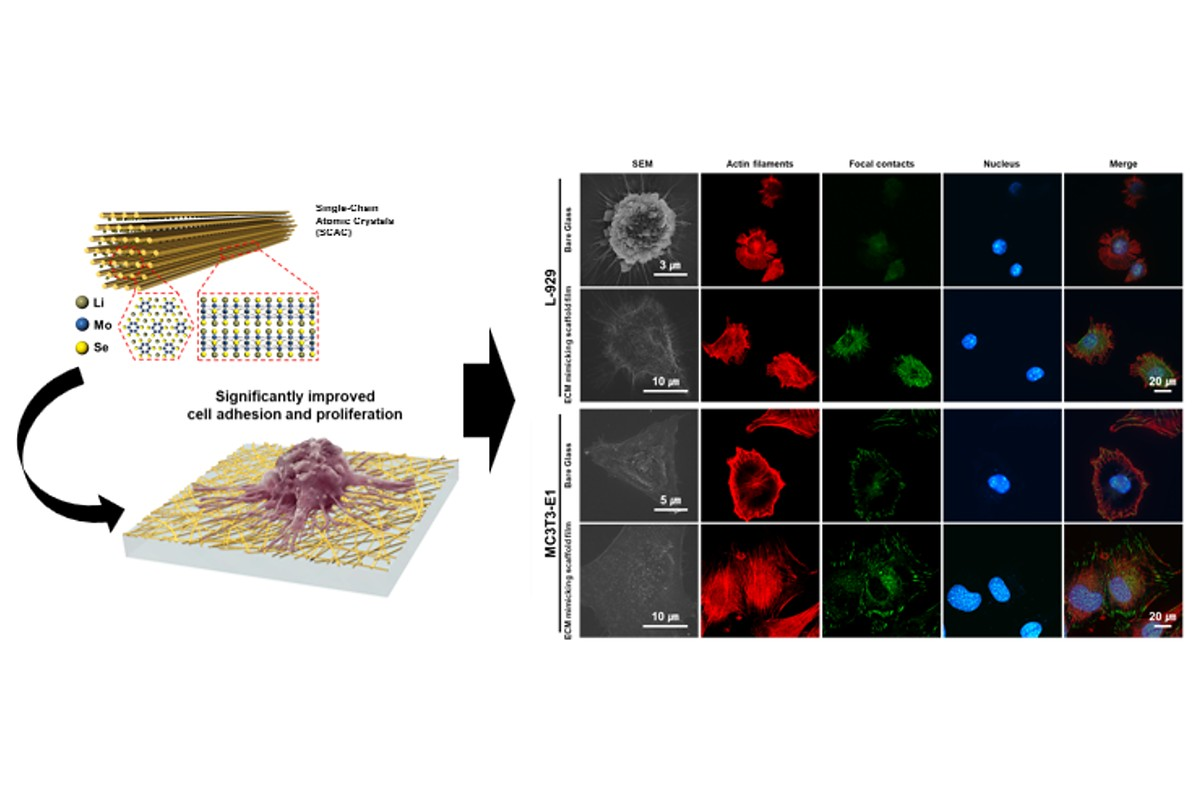
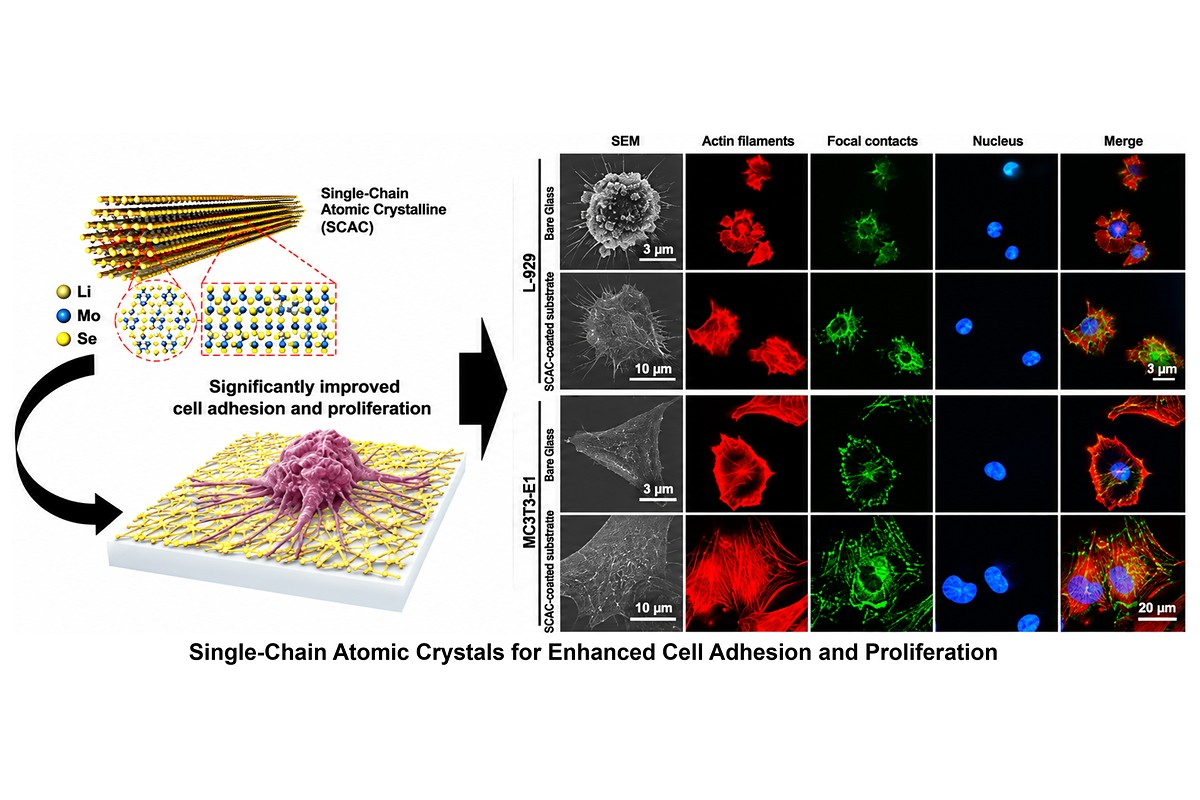
Research: new figures from the Dropbox folder, and the CRYK figure closes area 1
- Area 1 now turns through five figures and ends on the DNA-addressed plasmonic
  colour figure (CRYK / colour sensor), which was previously first: nanoclusters,
  aptamers, cell counting, dual-enzyme whitening, plasmonic colour.
- Area 3 grows from one figure to five: the ATP pad-dry-cure scheme, RNA as a
  flame retardant for polyurethane foam, the flame test with infrared and SEM of
  the char, the thermally switchable MNP@SiO2@SDS filler, and the TA/ATP/CNF
  aerogel.
- Area 4 gains two figures after the ACS Nano 2020 summary: the genetic algorithm
  itself (18-bit gene, crossover, mutation) and the AI-based DNA image analysis.
- Rebuilt four figures from the newer, larger originals in the folder: whitening
  (adds the non-destructive whitening, biofilm and hypersensitivity panels), cell
  counting, SCAC cell adhesion and the bone-regeneration hydrogel.
- Every figure is a 1200x800 fit on white, so nothing is cropped by object-fit;
  alt text and lightbox captions are new for the six added figures, the area 3
  intro mentions the aerogels and the switching filler, and the ?v= of each
  changed image is bumped.

Changed region(s): [[0.0, 0.1562, 1.0, 0.8438]]

diff --git a/research/index.html b/research/index.html
@@ -88,7 +88,7 @@
       <h2>Four research areas</h2>
       <p>Each area stands on its own and feeds the others: a nanostructure made for diagnosis becomes a surface for studying cells, and the images it generates train the next generation of design models. Each card turns through the figures behind that area; select one to open the viewer and step through them all.</p>
     </div>
-    <div class="area-grid"><article class="area reveal" id="biomedical-diagnosis"><button class="gallery-item area-media" type="button" data-gallery-item data-frames='[{"s": "../assets/research-plasmonic.jpg?v=5b90ddf2", "a": "DNA-addressed plasmonic colour: red gold nanoparticles, yellow silver nanoparticles and cyan gold nanorods, each carrying its own DNA strand, mix to black in the CRYK colour model; below, a virus capsid and a DNA probe on a gold nanorod that switches on when the virus is captured", "c": "Plasmonic colour from DNA-addressed nanoparticles: gold (red), silver (yellow) and gold-nanorod (cyan) building blocks mix to an achromatic black, and a DNA probe on a gold nanorod reports a captured virus as an ON signal."}, {"s": "../assets/research-nanocluster.jpg?v=5af2bd51", "a": "Gold nanorods in mesoporous silica (GNR@mSiO2) nanoclusters: TEM images and cross-sections of the P1, P2 and P3 clusters, and models of a parallelly ordered cluster with the rods packed side by side and a randomly ordered cluster", "c": "Complex nanoclusters: gold nanorods grown inside mesoporous silica (GNR@mSiO2), from the TEM images of the P1, P2 and P3 clusters to the models of a parallelly ordered cluster and a randomly ordered one."}, {"s": "../assets/research-aptamer.jpg?v=9cf2ce0a", "a": "Cycle of graphene-oxide-coated magnetic nanoparticle (GOMNP) SELEX: the beads bind the target-ssDNA complex, magnetic separation, asymmetric PCR amplification and purification for the next round", "c": "Finding new DNA aptamers with graphene-oxide-coated magnetic nanoparticles: target-bound strands are separated magnetically, amplified and carried into the next SELEX round."}, {"s": "../assets/research-cellcount.jpg?v=b69df4e2", "a": "Ach-CC colorimetric sensor: the vials change colour as the cell number rises and membrane enzymes release lactate and hydrogen ions; a smartphone converts RGB to HSV and quantifies 0, 60 x 10^4 and 440 x 10^4 cells", "c": "Counting cells from a colour change: the Ach-CC sensor shifts colour as cells release lactate and hydrogen ions, and a smartphone camera reads the RGB to HSV shift and reports the cell number."}, {"s": "../assets/research-whitening.jpg?v=54f7d5dd", "a": "DENTA dual-enzyme tooth whitening: glucose oxidase generates H2O2 for whitening while catalase removes the excess, so sustained whitening against red wine, coffee, soda and ice-cream stains replaces the self-degradation of single-enzyme whitening", "c": "Dual-enzyme whitening: glucose oxidase supplies H2O2 while catalase removes the excess, so DENTA keeps whitening against red wine, coffee, soda and ice-cream stains instead of consuming itself."}]' aria-label="Open the figures for Nanomaterials for Biomedical Diagnosis &amp; Therapy"><span class="gal-track"><img class="gal-frame is-active" src="../assets/research-plasmonic.jpg?v=5b90ddf2" alt="DNA-addressed plasmonic colour: red gold nanoparticles, yellow silver nanoparticles and cyan gold nanorods, each carrying its own DNA strand, mix to black in the CRYK colour model; below, a virus capsid and a DNA probe on a gold nanorod that switches on when the virus is captured" width="1200" height="800" loading="lazy" decoding="async"><img class="gal-frame" src="../assets/research-nanocluster.jpg?v=5af2bd51" alt="Gold nanorods in mesoporous silica (GNR@mSiO2) nanoclusters: TEM images and cross-sections of the P1, P2 and P3 clusters, and models of a parallelly ordered cluster with the rods packed side by side and a randomly ordered cluster" width="1200" height="800" loading="lazy" decoding="async"><img class="gal-frame" src="../assets/research-aptamer.jpg?v=9cf2ce0a" alt="Cycle of graphene-oxide-coated magnetic nanoparticle (GOMNP) SELEX: the beads bind the target-ssDNA complex, magnetic separation, asymmetric PCR amplification and purification for the next round" width="1200" height="800" loading="lazy" decoding="async"><img class="gal-frame" src="../assets/research-cellcount.jpg?v=b69df4e2" alt="Ach-CC colorimetric sensor: the vials change colour as the cell number rises and membrane enzymes release lactate and hydrogen ions; a smartphone converts RGB to HSV and quantifies 0, 60 x 10^4 and 440 x 10^4 cells" width="1200" height="800" loading="lazy" decoding="async"><img class="gal-frame" src="../assets/research-whitening.jpg?v=54f7d5dd" alt="DENTA dual-enzyme tooth whitening: glucose oxidase generates H2O2 for whitening while catalase removes the excess, so sustained whitening against red wine, coffee, soda and ice-cream stains replaces the self-degradation of single-enzyme whitening" width="1200" height="800" loading="lazy" decoding="async"></span><span class="gal-badge">1 / 5</span><span class="gal-dots"><i class="is-on"></i><i></i><i></i><i></i><i></i></span><span class="zoom"><svg class="" viewBox="0 0 24 24" fill="none" stroke="currentColor" stroke-width="1.8" stroke-linecap="round" stroke-linejoin="round" aria-hidden="true"><path d="M11 19a8 8 0 100-16 8 8 0 000 16zM21 21l-4.3-4.3 M11 8v6M8 11h6"/></svg></span></button><div class="area-body"><span class="card-num">AREA 01</span><h3>Nanomaterials for Biomedical Diagnosis &amp; Therapy</h3><p>Plasmonic nanostructures and complex nanoclusters of gold nanorods in mesoporous silica, DNA aptamers and enzyme- or biomolecule-based systems for sensitive biosensing, diagnostics and targeted therapy.</p></div></article><article class="area reveal" id="materials-cell-interactions"><button class="gallery-item area-media" type="button" data-gallery-item data-frames='[{"s": "../assets/research-cell.jpg?v=2810f20a", "a": "DNApatite model: phosphate groups on single-stranded DNA binding Ca2+ and OH- into an apatite unit cell, the hydrothermal synthesis route, and molecular-dynamics snapshots at 0.4, 50 and 100 ns", "c": "DNApatite, an elastic apatite in which phosphates on DNA react with Ca2+ and OH- to form a crystalline organo-inorganic lattice, from the unit cell to a 200 nm rod and its molecular-dynamics behaviour."}, {"s": "../assets/research-dnapatite-mechanics.jpg?v=852c49da", "a": "DNApatite mechanics: ssDNA phosphate groups crystallize with Ca2+ into an apatite lattice, a 200 nm rod with 0.78 nm HA and 0.37 nm ssDNA spacings, and load-displacement curves that keep bending where HA nanorods fail", "c": "Why DNApatite is elastic: its phosphate backbone sets a 0.37 nm spacing against 0.78 nm in HA, and the rod keeps deforming and recovering in load-displacement tests far beyond the HA nanorod."}, {"s": "../assets/research-scac.jpg?v=92f7c49e", "a": "Single-chain atomic crystal (SCAC) Li-Mo-Se nanowires as an ECM-mimicking surface: SEM, actin filaments, focal contacts, nuclei and merged fluorescence of L-929 fibroblasts and MC3T3-E1 pre-osteoblasts on bare glass versus the nanowire coating", "c": "Single-chain atomic crystals of Li-Mo-Se as an extracellular-matrix-mimicking surface: L-929 and MC3T3-E1 cells spread further and build more focal contacts than on bare glass."}, {"s": "../assets/research-hydrogel.jpg?v=e58fcdde", "a": "Mo3Se3 inorganic-molecular-wire reinforced gelatin/silk hydrogel: the porous matrix, its non-covalent cross-links and the 0.6 nm crystal structure of the wire, plus a hole defect in a rabbit model and micro-CT scans at 28 days for the GS and IMW-GS gels", "c": "An inorganic-molecular-wire reinforced gelatin/silk hydrogel for a bone hole defect: micro-CT at 28 days shows the wire-reinforced gel holding and filling the defect where the plain gel leaves a void."}]' aria-label="Open the figures for Materials &amp; Cell Interfaces"><span class="gal-track"><img class="gal-frame is-active" src="../assets/research-cell.jpg?v=2810f20a" alt="DNApatite model: phosphate groups on single-stranded DNA binding Ca2+ and OH- into an apatite unit cell, the hydrothermal synthesis route, and molecular-dynamics snapshots at 0.4, 50 and 100 ns" width="1200" height="800" loading="lazy" decoding="async"><img class="gal-frame" src="../assets/research-dnapatite-mechanics.jpg?v=852c49da" alt="DNApatite mechanics: ssDNA phosphate groups crystallize with Ca2+ into an apatite lattice, a 200 nm rod with 0.78 nm HA and 0.37 nm ssDNA spacings, and load-displacement curves that keep bending where HA nanorods fail" width="1200" height="800" loading="lazy" decoding="async"><img class="gal-frame" src="../assets/research-scac.jpg?v=92f7c49e" alt="Single-chain atomic crystal (SCAC) Li-Mo-Se nanowires as an ECM-mimicking surface: SEM, actin filaments, focal contacts, nuclei and merged fluorescence of L-929 fibroblasts and MC3T3-E1 pre-osteoblasts on bare glass versus the nanowire coating" width="1200" height="800" loading="lazy" decoding="async"><img class="gal-frame" src="../assets/research-hydrogel.jpg?v=e58fcdde" alt="Mo3Se3 inorganic-molecular-wire reinforced gelatin/silk hydrogel: the porous matrix, its non-covalent cross-links and the 0.6 nm crystal structure of the wire, plus a hole defect in a rabbit model and micro-CT scans at 28 days for the GS and IMW-GS gels" width="1200" height="800" loading="lazy" decoding="async"></span><span class="gal-badge">1 / 4</span><span class="gal-dots"><i class="is-on"></i><i></i><i></i><i></i></span><span class="zoom"><svg class="" viewBox="0 0 24 24" fill="none" stroke="currentColor" stroke-width="1.8" stroke-linecap="round" stroke-linejoin="round" aria-hidden="true"><path d="M11 19a8 8 0 100-16 8 8 0 000 16zM21 21l-4.3-4.3 M11 8v6M8 11h6"/></svg></span></button><div class="area-body"><span class="card-num">AREA 02</span><h3>Materials &amp; Cell Interfaces</h3><p>How nanostructured surfaces and bioinspired hydrogels steer cell adhesion, proliferation and tissue repair in vivo, from single-chain atomic crystals to DNApatite, an organo-inorganic apatite as stiff as bone yet elastic.</p></div></article><article class="area reveal" id="bio-derived-materials"><button class="gallery-item area-media" type="button" data-gallery-item data-frames='[{"s": "../assets/research-bio.jpg?v=2d08a41c", "a": "Textile treatment scheme: a pad-dry-cure process line and C-O-P bonds linking ATP and reactive dye to cellulose in cotton", "c": "Bio-derived materials and flame retardants: cotton is scoured, treated with adenosine triphosphate and a reactive dye, then padded and cured, so C-O-P bonds anchor the bio-derived phosphorus chemistry to the fibre."}]' aria-label="Open figure: Bio-Derived Materials &amp; Flame Retardants"><span class="gal-track"><img class="gal-frame is-active" src="../assets/research-bio.jpg?v=2d08a41c" alt="Textile treatment scheme: a pad-dry-cure process line and C-O-P bonds linking ATP and reactive dye to cellulose in cotton" width="1200" height="800" loading="lazy" decoding="async"></span><span class="zoom"><svg class="" viewBox="0 0 24 24" fill="none" stroke="currentColor" stroke-width="1.8" stroke-linecap="round" stroke-linejoin="round" aria-hidden="true"><path d="M11 19a8 8 0 100-16 8 8 0 000 16zM21 21l-4.3-4.3 M11 8v6M8 11h6"/></svg></span></button><div class="area-body"><span class="card-num">AREA 03</span><h3>Bio-Derived Materials &amp; Flame Retardants</h3><p>We develop bio-based flame retardants for polymers and textiles using ATP, RNA, and other biomolecules. We also explore chitosan, cellulose, and other bio-derived building blocks for sustainable materials.</p></div></article><article class="area reveal" id="ai-materials-design"><button class="gallery-item area-media" type="button" data-gallery-item data-frames='[{"s": "../assets/research-ai.jpg?v=423691f2", "a": "Genetic-algorithm image analysis of TEM micrographs: densely packed gold nanorods separated into individual particles, 18-bit gene strings recombined and mutated, and the shapes clustered into groups of 10, 4, 62, 23 and 1 percent", "c": "AI-driven characterization: a genetic algorithm searches 18-bit combinations of image-analysis steps, so densely packed gold nanorods in TEM images are separated into individual particles and clustered into five shape families (10, 4, 62, 23 and 1 percent)."}, {"s": "../assets/research-opticalmap.jpg?v=a3c85674", "a": "Optical map of a single DNA molecule: DNA-binding proteins and streptavidin-coated quantum dots label chosen sites, fluorescence and SEM images of m13mp18 DNA, and an automated optical map with eight labelled sites along the strand", "c": "Reading a single DNA molecule: quantum-dot labels mark chosen sites on m13mp18 DNA, and an automated read-out of the fluorescence and SEM images turns the labelled positions into an optical map."}]' aria-label="Open the figures for AI-Driven Material Design &amp; Characterization"><span class="gal-track"><img class="gal-frame is-active" src="../assets/research-ai.jpg?v=423691f2" alt="Genetic-algorithm image analysis of TEM micrographs: densely packed gold nanorods separated into individual particles, 18-bit gene strings recombined and mutated, and the shapes clustered into groups of 10, 4, 62, 23 and 1 percent" width="1200" height="800" loading="lazy" decoding="async"><img class="gal-frame" src="../assets/research-opticalmap.jpg?v=a3c85674" alt="Optical map of a single DNA molecule: DNA-binding proteins and streptavidin-coated quantum dots label chosen sites, fluorescence and SEM images of m13mp18 DNA, and an automated optical map with eight labelled sites along the strand" width="1200" height="800" loading="lazy" decoding="async"></span><span class="gal-badge">1 / 2</span><span class="gal-dots"><i class="is-on"></i><i></i></span><span class="zoom"><svg class="" viewBox="0 0 24 24" fill="none" stroke="currentColor" stroke-width="1.8" stroke-linecap="round" stroke-linejoin="round" aria-hidden="true"><path d="M11 19a8 8 0 100-16 8 8 0 000 16zM21 21l-4.3-4.3 M11 8v6M8 11h6"/></svg></span></button><div class="area-body"><span class="card-num">AREA 04</span><h3>AI-Driven Material Design &amp; Characterization</h3><p>Machine-learning image analysis, genetic algorithms and autonomous agents that read electron micrographs, quantify nanostructures and shorten the path from a design idea to a validated material.</p></div></article></div>
+    <div class="area-grid"><article class="area reveal" id="biomedical-diagnosis"><button class="gallery-item area-media" type="button" data-gallery-item data-frames='[{"s": "../assets/research-nanocluster.jpg?v=5af2bd51", "a": "Gold nanorods in mesoporous silica (GNR@mSiO2) nanoclusters: TEM images and cross-sections of the P1, P2 and P3 clusters, and models of a parallelly ordered cluster with the rods packed side by side and a randomly ordered cluster", "c": "Complex nanoclusters: gold nanorods grown inside mesoporous silica (GNR@mSiO2), from the TEM images of the P1, P2 and P3 clusters to the models of a parallelly ordered cluster and a randomly ordered one."}, {"s": "../assets/research-aptamer.jpg?v=9cf2ce0a", "a": "Cycle of graphene-oxide-coated magnetic nanoparticle (GOMNP) SELEX: the beads bind the target-ssDNA complex, magnetic separation, asymmetric PCR amplification and purification for the next round", "c": "Finding new DNA aptamers with graphene-oxide-coated magnetic nanoparticles: target-bound strands are separated magnetically, amplified and carried into the next SELEX round."}, {"s": "../assets/research-cellcount.jpg?v=1a73e40f", "a": "Ach-CC colorimetric sensor: the vials change colour as the cell number rises and membrane enzymes release lactate and hydrogen ions; a smartphone converts RGB to HSV and quantifies 0, 60 x 10^4 and 440 x 10^4 cells", "c": "Counting cells from a colour change: the Ach-CC sensor shifts colour as cells release lactate and hydrogen ions, and a smartphone camera reads the RGB to HSV shift and reports the cell number."}, {"s": "../assets/research-whitening.jpg?v=ee18ba54", "a": "DENTA dual-enzyme tooth whitening: glucose oxidase generates H2O2 for whitening while catalase removes the excess, so sustained whitening replaces the self-degradation of single-enzyme whitening, without killing cells or damaging the dentinal tubules", "c": "Dual-enzyme whitening: glucose oxidase supplies H2O2 while catalase removes the excess, so DENTA keeps whitening instead of consuming itself, without harming cells and with less dentinal hypersensitivity."}, {"s": "../assets/research-plasmonic.jpg?v=5b90ddf2", "a": "DNA-addressed plasmonic colour: red gold nanoparticles, yellow silver nanoparticles and cyan gold nanorods, each carrying its own DNA strand, mix to black in the CRYK colour model; below, a virus capsid and a DNA probe on a gold nanorod that switches on when the virus is captured", "c": "Plasmonic colour from DNA-addressed nanoparticles: gold (red), silver (yellow) and gold-nanorod (cyan) building blocks mix to an achromatic black, and a DNA probe on a gold nanorod reports a captured virus as an ON signal."}]' aria-label="Open the figures for Nanomaterials for Biomedical Diagnosis &amp; Therapy"><span class="gal-track"><img class="gal-frame is-active" src="../assets/research-nanocluster.jpg?v=5af2bd51" alt="Gold nanorods in mesoporous silica (GNR@mSiO2) nanoclusters: TEM images and cross-sections of the P1, P2 and P3 clusters, and models of a parallelly ordered cluster with the rods packed side by side and a randomly ordered cluster" width="1200" height="800" loading="lazy" decoding="async"><img class="gal-frame" src="../assets/research-aptamer.jpg?v=9cf2ce0a" alt="Cycle of graphene-oxide-coated magnetic nanoparticle (GOMNP) SELEX: the beads bind the target-ssDNA complex, magnetic separation, asymmetric PCR amplification and purification for the next round" width="1200" height="800" loading="lazy" decoding="async"><img class="gal-frame" src="../assets/research-cellcount.jpg?v=1a73e40f" alt="Ach-CC colorimetric sensor: the vials change colour as the cell number rises and membrane enzymes release lactate and hydrogen ions; a smartphone converts RGB to HSV and quantifies 0, 60 x 10^4 and 440 x 10^4 cells" width="1200" height="800" loading="lazy" decoding="async"><img class="gal-frame" src="../assets/research-whitening.jpg?v=ee18ba54" alt="DENTA dual-enzyme tooth whitening: glucose oxidase generates H2O2 for whitening while catalase removes the excess, so sustained whitening replaces the self-degradation of single-enzyme whitening, without killing cells or damaging the dentinal tubules" width="1200" height="800" loading="lazy" decoding="async"><img class="gal-frame" src="../assets/research-plasmonic.jpg?v=5b90ddf2" alt="DNA-addressed plasmonic colour: red gold nanoparticles, yellow silver nanoparticles and cyan gold nanorods, each carrying its own DNA strand, mix to black in the CRYK colour model; below, a virus capsid and a DNA probe on a gold nanorod that switches on when the virus is captured" width="1200" height="800" loading="lazy" decoding="async"></span><span class="gal-badge">1 / 5</span><span class="gal-dots"><i class="is-on"></i><i></i><i></i><i></i><i></i></span><span class="zoom"><svg class="" viewBox="0 0 24 24" fill="none" stroke="currentColor" stroke-width="1.8" stroke-linecap="round" stroke-linejoin="round" aria-hidden="true"><path d="M11 19a8 8 0 100-16 8 8 0 000 16zM21 21l-4.3-4.3 M11 8v6M8 11h6"/></svg></span></button><div class="area-body"><span class="card-num">AREA 01</span><h3>Nanomaterials for Biomedical Diagnosis &amp; Therapy</h3><p>Plasmonic nanostructures and complex nanoclusters of gold nanorods in mesoporous silica, DNA aptamers and enzyme- or biomolecule-based systems for sensitive biosensing, diagnostics and targeted therapy.</p></div></article><article class="area reveal" id="materials-cell-interactions"><button class="gallery-item area-media" type="button" data-gallery-item data-frames='[{"s": "../assets/research-cell.jpg?v=2810f20a", "a": "DNApatite model: phosphate groups on single-stranded DNA binding Ca2+ and OH- into an apatite unit cell, the hydrothermal synthesis route, and molecular-dynamics snapshots at 0.4, 50 and 100 ns", "c": "DNApatite, an elastic apatite in which phosphates on DNA react with Ca2+ and OH- to form a crystalline organo-inorganic lattice, from the unit cell to a 200 nm rod and its molecular-dynamics behaviour."}, {"s": "../assets/research-dnapatite-mechanics.jpg?v=852c49da", "a": "DNApatite mechanics: ssDNA phosphate groups crystallize with Ca2+ into an apatite lattice, a 200 nm rod with 0.78 nm HA and 0.37 nm ssDNA spacings, and load-displacement curves that keep bending where HA nanorods fail", "c": "Why DNApatite is elastic: its phosphate backbone sets a 0.37 nm spacing against 0.78 nm in HA, and the rod keeps deforming and recovering in load-displacement tests far beyond the HA nanorod."}, {"s": "../assets/research-scac.jpg?v=f1a5b5c0", "a": "Single-chain atomic crystal (SCAC) Li-Mo-Se nanowires as an ECM-mimicking surface: SEM, actin filaments, focal contacts, nuclei and merged fluorescence of L-929 fibroblasts and MC3T3-E1 pre-osteoblasts on bare glass versus the nanowire coating", "c": "Single-chain atomic crystals of Li-Mo-Se as an extracellular-matrix-mimicking surface: L-929 and MC3T3-E1 cells spread further and build more focal contacts than on bare glass."}, {"s": "../assets/research-hydrogel.jpg?v=d5148ce4", "a": "Mo3Se3 inorganic-molecular-wire reinforced gelatin/silk hydrogel: the porous matrix, its non-covalent cross-links and the 0.6 nm crystal structure of the wire, plus a hole defect in a rabbit model and micro-CT scans at 28 days for the GS and IMW-GS gels", "c": "An inorganic-molecular-wire reinforced gelatin/silk hydrogel for bone regeneration: micro-CT at 28 days shows the wire-reinforced gel filling a rabbit bone defect where the plain gel leaves a void."}]' aria-label="Open the figures for Materials &amp; Cell Interfaces"><span class="gal-track"><img class="gal-frame is-active" src="../assets/research-cell.jpg?v=2810f20a" alt="DNApatite model: phosphate groups on single-stranded DNA binding Ca2+ and OH- into an apatite unit cell, the hydrothermal synthesis route, and molecular-dynamics snapshots at 0.4, 50 and 100 ns" width="1200" height="800" loading="lazy" decoding="async"><img class="gal-frame" src="../assets/research-dnapatite-mechanics.jpg?v=852c49da" alt="DNApatite mechanics: ssDNA phosphate groups crystallize with Ca2+ into an apatite lattice, a 200 nm rod with 0.78 nm HA and 0.37 nm ssDNA spacings, and load-displacement curves that keep bending where HA nanorods fail" width="1200" height="800" loading="lazy" decoding="async"><img class="gal-frame" src="../assets/research-scac.jpg?v=f1a5b5c0" alt="Single-chain atomic crystal (SCAC) Li-Mo-Se nanowires as an ECM-mimicking surface: SEM, actin filaments, focal contacts, nuclei and merged fluorescence of L-929 fibroblasts and MC3T3-E1 pre-osteoblasts on bare glass versus the nanowire coating" width="1200" height="800" loading="lazy" decoding="async"><img class="gal-frame" src="../assets/research-hydrogel.jpg?v=d5148ce4" alt="Mo3Se3 inorganic-molecular-wire reinforced gelatin/silk hydrogel: the porous matrix, its non-covalent cross-links and the 0.6 nm crystal structure of the wire, plus a hole defect in a rabbit model and micro-CT scans at 28 days for the GS and IMW-GS gels" width="1200" height="800" loading="lazy" decoding="async"></span><span class="gal-badge">1 / 4</span><span class="gal-dots"><i class="is-on"></i><i></i><i></i><i></i></span><span class="zoom"><svg class="" viewBox="0 0 24 24" fill="none" stroke="currentColor" stroke-width="1.8" stroke-linecap="round" stroke-linejoin="round" aria-hidden="true"><path d="M11 19a8 8 0 100-16 8 8 0 000 16zM21 21l-4.3-4.3 M11 8v6M8 11h6"/></svg></span></button><div class="area-body"><span class="card-num">AREA 02</span><h3>Materials &amp; Cell Interfaces</h3><p>How nanostructured surfaces and bioinspired hydrogels steer cell adhesion, proliferation and tissue repair in vivo, from single-chain atomic crystals to DNApatite, an organo-inorganic apatite as stiff as bone yet elastic.</p></div></article><article class="area reveal" id="bio-derived-materials"><button class="gallery-item area-media" type="button" data-gallery-item data-frames='[{"s": "../assets/research-bio.jpg?v=2d08a41c", "a": "Textile treatment scheme: a pad-dry-cure process line and C-O-P bonds linking ATP and reactive dye to cellulose in cotton", "c": "Bio-derived materials and flame retardants: cotton is scoured, treated with adenosine triphosphate and a reactive dye, then padded and cured, so C-O-P bonds anchor the bio-derived phosphorus chemistry to the fibre."}, {"s": "../assets/research-fr-rna.jpg?v=0c2c7f63", "a": "RNA as a bio-derived flame retardant for polyurethane foam: its phosphate is the acid source, its ribose the char source, its nucleobase the blowing agent and its hydroxyl groups the accelerator, all hydrogen-bonded to the foam surface, so combustion builds a protective char and releases PO and NH3", "c": "RNA as a fire retardant for polyurethane foam: the phosphate, ribose and nucleobase of RNA act as acid source, char source and blowing agent, and on combustion the foam builds a protective char that releases PO and NH3 instead of burning."}, {"s": "../assets/research-fr-test.jpg?v=74b2f901", "a": "Flame test of bare polyurethane and flame-retardant polyurethane: the bare foam ignites and burns through within 30 seconds while the treated foam holds to 70 seconds, with infrared images of the surface temperature and SEM images of the remaining char", "c": "Bio-derived flame retardancy in polyurethane foam: the untreated foam burns through within 30 seconds, while the treated foam holds its shape to 70 seconds, and infrared imaging and SEM show the cooler surface and the dense char that protects it."}, {"s": "../assets/research-thermal-filler.jpg?v=e5180d97", "a": "Heat-switching filler: magnetite nanoparticles coated with silica and SDS, thermal conductivity peaking at 0.467 W m-1 K-1 for 30 wt% and falling as the temperature rises to 250 C, flame tests of coatings from 0 to 10 wt%, and SEM and TEM images of the particles before and after heating", "c": "A thermally switchable filler: magnetite nanoparticles with a silica shell and an SDS surface conduct heat best at 30 wt%, 0.467 W m-1 K-1, and switch that conduction off as the temperature rises, so one bio-derived coating can either dissipate heat or insulate."}, {"s": "../assets/research-aerogel.jpg?v=5937414d", "a": "Bio-derived multifunctional aerogel: tannic acid, adenosine triphosphate and cellulose nanofibers with 3-aminopropyl triethoxysilane form a TA/ATP/CNF aerogel that is flame retardant, thermally insulating, water resistant, oil absorbent and mechanically strong", "c": "A bio-derived multifunctional aerogel: tannic acid, ATP and cellulose nanofibers with an aminosilane cross-linker give a TA/ATP/CNF aerogel that is flame retardant, thermally insulating, water resistant, oil absorbent and mechanically strong."}]' aria-label="Open the figures for Bio-Derived Materials &amp; Flame Retardants"><span class="gal-track"><img class="gal-frame is-active" src="../assets/research-bio.jpg?v=2d08a41c" alt="Textile treatment scheme: a pad-dry-cure process line and C-O-P bonds linking ATP and reactive dye to cellulose in cotton" width="1200" height="800" loading="lazy" decoding="async"><img class="gal-frame" src="../assets/research-fr-rna.jpg?v=0c2c7f63" alt="RNA as a bio-derived flame retardant for polyurethane foam: its phosphate is the acid source, its ribose the char source, its nucleobase the blowing agent and its hydroxyl groups the accelerator, all hydrogen-bonded to the foam surface, so combustion builds a protective char and releases PO and NH3" width="1200" height="800" loading="lazy" decoding="async"><img class="gal-frame" src="../assets/research-fr-test.jpg?v=74b2f901" alt="Flame test of bare polyurethane and flame-retardant polyurethane: the bare foam ignites and burns through within 30 seconds while the treated foam holds to 70 seconds, with infrared images of the surface temperature and SEM images of the remaining char" width="1200" height="800" loading="lazy" decoding="async"><img class="gal-frame" src="../assets/research-thermal-filler.jpg?v=e5180d97" alt="Heat-switching filler: magnetite nanoparticles coated with silica and SDS, thermal conductivity peaking at 0.467 W m-1 K-1 for 30 wt% and falling as the temperature rises to 250 C, flame tests of coatings from 0 to 10 wt%, and SEM and TEM images of the particles before and after heating" width="1200" height="800" loading="lazy" decoding="async"><img class="gal-frame" src="../assets/research-aerogel.jpg?v=5937414d" alt="Bio-derived multifunctional aerogel: tannic acid, adenosine triphosphate and cellulose nanofibers with 3-aminopropyl triethoxysilane form a TA/ATP/CNF aerogel that is flame retardant, thermally insulating, water resistant, oil absorbent and mechanically strong" width="1200" height="800" loading="lazy" decoding="async"></span><span class="gal-badge">1 / 5</span><span class="gal-dots"><i class="is-on"></i><i></i><i></i><i></i><i></i></span><span class="zoom"><svg class="" viewBox="0 0 24 24" fill="none" stroke="currentColor" stroke-width="1.8" stroke-linecap="round" stroke-linejoin="round" aria-hidden="true"><path d="M11 19a8 8 0 100-16 8 8 0 000 16zM21 21l-4.3-4.3 M11 8v6M8 11h6"/></svg></span></button><div class="area-body"><span class="card-num">AREA 03</span><h3>Bio-Derived Materials &amp; Flame Retardants</h3><p>We develop bio-based flame retardants for polymers and textiles using ATP, RNA, and other biomolecules. We also explore chitosan, cellulose, and other bio-derived building blocks for sustainable materials: aerogels that insulate, repel water and absorb oil, and fillers that switch their heat transport with temperature.</p></div></article><article class="area reveal" id="ai-materials-design"><button class="gallery-item area-media" type="button" data-gallery-item data-frames='[{"s": "../assets/research-ai.jpg?v=423691f2", "a": "Genetic-algorithm image analysis of TEM micrographs: densely packed gold nanorods separated into individual particles, 18-bit gene strings recombined and mutated, and the shapes clustered into groups of 10, 4, 62, 23 and 1 percent", "c": "AI-driven characterization: a genetic algorithm searches 18-bit combinations of image-analysis steps, so densely packed gold nanorods in TEM images are separated into individual particles and clustered into five shape families (10, 4, 62, 23 and 1 percent)."}, {"s": "../assets/research-ai-ga.jpg?v=0db09b6a", "a": "Inside the genetic algorithm: image analysis of a TEM image through pretreatment, edge detection and post treatment, an 18-bit gene that sets kernel size, connectivity, sequence, threshold and select, and crossover and mutation of the high-scoring parameter sets until the particles separate cleanly", "c": "How the search works: each 18-bit gene encodes the kernel size, connectivity, sequence, threshold and selection of the image-analysis steps, and the best-scoring sets are crossed over and mutated until the gold nanorods in the TEM image are separated cleanly."}, {"s": "../assets/research-ai-dna.jpg?v=def2c4d3", "a": "AI-based DNA image analysis: stacks of electron micrographs of salmon sperm DNA and M13 phage DNA are segmented into binary skeletons, so the length and shape of each molecule can be measured", "c": "Deep-learning DNA image analysis: stacks of electron micrographs of salmon sperm DNA and M13 phage DNA are segmented into skeletons, so many molecules are measured for length and shape at once."}, {"s": "../assets/research-opticalmap.jpg?v=a3c85674", "a": "Optical map of a single DNA molecule: DNA-binding proteins and streptavidin-coated quantum dots label chosen sites, fluorescence and SEM images of m13mp18 DNA, and an automated optical map with eight labelled sites along the strand", "c": "Reading a single DNA molecule: quantum-dot labels mark chosen sites on m13mp18 DNA, and an automated read-out of the fluorescence and SEM images turns the labelled positions into an optical map."}]' aria-label="Open the figures for AI-Driven Material Design &amp; Characterization"><span class="gal-track"><img class="gal-frame is-active" src="../assets/research-ai.jpg?v=423691f2" alt="Genetic-algorithm image analysis of TEM micrographs: densely packed gold nanorods separated into individual particles, 18-bit gene strings recombined and mutated, and the shapes clustered into groups of 10, 4, 62, 23 and 1 percent" width="1200" height="800" loading="lazy" decoding="async"><img class="gal-frame" src="../assets/research-ai-ga.jpg?v=0db09b6a" alt="Inside the genetic algorithm: image analysis of a TEM image through pretreatment, edge detection and post treatment, an 18-bit gene that sets kernel size, connectivity, sequence, threshold and select, and crossover and mutation of the high-scoring parameter sets until the particles separate cleanly" width="1200" height="800" loading="lazy" decoding="async"><img class="gal-frame" src="../assets/research-ai-dna.jpg?v=def2c4d3" alt="AI-based DNA image analysis: stacks of electron micrographs of salmon sperm DNA and M13 phage DNA are segmented into binary skeletons, so the length and shape of each molecule can be measured" width="1200" height="800" loading="lazy" decoding="async"><img class="gal-frame" src="../assets/research-opticalmap.jpg?v=a3c85674" alt="Optical map of a single DNA molecule: DNA-binding proteins and streptavidin-coated quantum dots label chosen sites, fluorescence and SEM images of m13mp18 DNA, and an automated optical map with eight labelled sites along the strand" width="1200" height="800" loading="lazy" decoding="async"></span><span class="gal-badge">1 / 4</span><span class="gal-dots"><i class="is-on"></i><i></i><i></i><i></i></span><span class="zoom"><svg class="" viewBox="0 0 24 24" fill="none" stroke="currentColor" stroke-width="1.8" stroke-linecap="round" stroke-linejoin="round" aria-hidden="true"><path d="M11 19a8 8 0 100-16 8 8 0 000 16zM21 21l-4.3-4.3 M11 8v6M8 11h6"/></svg></span></button><div class="area-body"><span class="card-num">AREA 04</span><h3>AI-Driven Material Design &amp; Characterization</h3><p>Machine-learning image analysis, genetic algorithms and autonomous agents that read electron micrographs, quantify nanostructures and shorten the path from a design idea to a validated material.</p></div></article></div>
   </div>
 </section>
 
